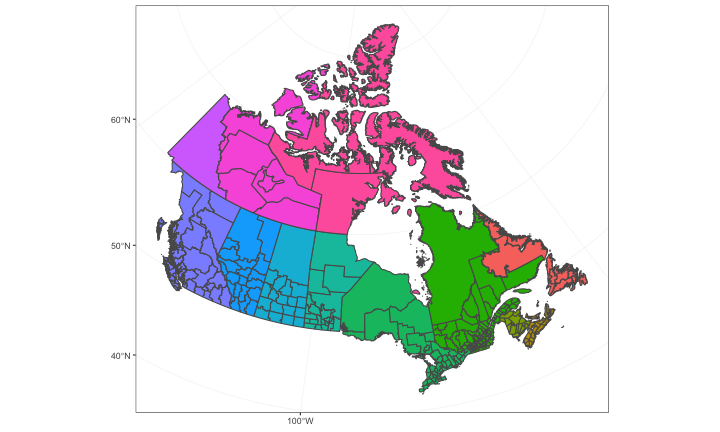
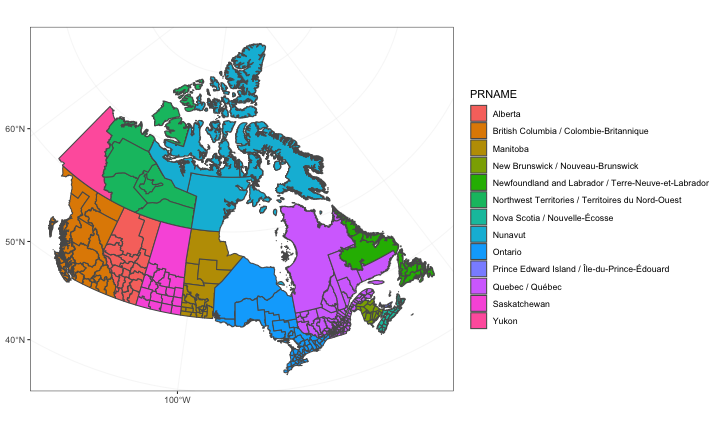
add dist plots

diff --git a/6-data-viz.html b/6-data-viz.html
@@ -212,9 +212,7 @@ m1 %&gt;%
 
 ---
 
-class: inverse
-
-## Always plot the data.
+## Always plot your data.
 
 --
 
@@ -223,7 +221,7 @@ class: inverse
 starwars %&gt;% 
 ggplot( aes(x = height, y = birth_year) ) + 
   geom_point( aes(size = mass) ) + 
-  geom_text(aes(label = ifelse(birth_year &gt; 750, name, NA)), size =4, hjust = 0)
+  geom_text(aes(label = ifelse(birth_year &gt; 750, name, NA)), color = "red")
 ```
 
 &lt;img src="/Users/judgelord/811/Figs/point-1.png" style="display: block; margin: auto;" /&gt;
@@ -244,7 +242,7 @@ ggplot( aes(x = height, y = birth_year) ) +
 
 ---
 
-# #!
+## !
 
 
 ```r
@@ -287,30 +285,32 @@ ggplot( aes(x = height, y = birth_year) ) +
 
 ---
 
+![](Figs/curve_fitting.png)
+---
 
-# `ggplot()`
+# Truth, beauty, `ggplot()`
 
 ---
 
-**aes**thetics: map variables onto things people can see (position, color, etc.)
+`aes`thetics map variables onto things people can see (position, color, etc.)
 
-**geom**: what to plot (points, lines, etc.)
+`geom`s are plot layers (points, lines, etc.)
 
-**scale**: data values to "computer" values (negative = "red", thousands = value/1000, etc.)
+`scale`s are how we show variation (negative = "red", thousands = value/1000, etc.)
 
-**facet**: split into mini-plots comparing subsets ("small multiples")
+`facet`s are mini-plots comparing subsets ("small multiples")
 
 
 ```r
 starwars %&gt;% 
   unnest(films) %&gt;% 
   filter(films %in% c("Return of the Jedi", "The Force Awakens")) %&gt;% 
-ggplot( aes(x = birth_year, y = height, size = mass, color = species) ) + 
-  geom_point(alpha = .5) + 
-  geom_text(aes(label = name), size = 4, hjust = 0, vjust = 0, check_overlap = T) + 
+ggplot( aes(x = birth_year, y = height, color = species) ) + 
+  geom_point( aes(size = mass), alpha = .5) + 
+  geom_text(aes(label = name),  hjust = 0, vjust = 0, check_overlap = T) + 
   scale_x_continuous(limits = c(0, 1000) ) + 
   facet_wrap("films") + # facet by film
-  labs(x = "Age", y = "Height (cm)", color = "Species", size = "Mass")
+  labs(x = "Age", y = "Height", color = "Species", size = "Mass")
 ```
 
 &lt;img src="/Users/judgelord/811/Figs/starwars-height-1.png" style="display: block; margin: auto;" /&gt;
@@ -334,15 +334,22 @@ head(world)
 ## 5 -70.06612 12.54697     1     5  Aruba      &lt;NA&gt;
 ## 6 -70.05088 12.59707     1     6  Aruba      &lt;NA&gt;
 ```
+
+```r
+world %&gt;% filter(region == "Aruba") %&gt;% 
+ggplot( aes(x = long, y = lat) ) + geom_point()
+```
+
+&lt;img src="/Users/judgelord/811/Figs/map-world-data-1.png" style="display: block; margin: auto;" /&gt;
 ---
 
 
 ```r
 world %&gt;% 
 ggplot( aes(x = long, y = lat) ) +  
-  # A map layer of country shapes
+  # A map layer of country shapes (geom_polygon connects the dots)
   geom_polygon( aes(group = group), fill = NA, color = "grey") +
-  # We are here: 43.0731° N, 89.4012° W
+  # We are here: 
   geom_point(aes(x=-89.4012, y=43.0731), color = "Red") 
 ```
 
@@ -381,7 +388,12 @@ ggplot( aes(x = long, y = lat, group = group) ) +
 &lt;img src="/Users/judgelord/811/Figs/map-wi-1.png" style="display: block; margin: auto;" /&gt;
 
 ---
-Ysing GIS data with `sf` (see [full example](https://github.com/judgelord/PS811/example_map_canada.Rmd), adapted [from Kieran Healy](https://kieranhealy.org/blog/archives/2018/12/09/canada-map/)).
+## `scale`
+
+![](Figs/scales.png)
+
+---
+Using GIS data with `sf` (see [full example](https://github.com/judgelord/PS811/example_map_canada.Rmd), adapted [from Kieran Healy](https://kieranhealy.org/blog/archives/2018/12/09/canada-map/)).
 
 
 ```r
@@ -389,8 +401,7 @@ canada_cd &lt;- st_read("data/canada_cd_sim.geojson", quiet = TRUE)
 
 canada_cd %&gt;% 
 ggplot() + 
-  geom_sf(mapping = aes(fill = PRUID)) + # provence ID
-  guides(fill = FALSE)
+  geom_sf(mapping = aes(fill = PRNAME)) 
 ```
 
 &lt;img src="/Users/judgelord/811/Figs/canada-1.png" style="display: block; margin: auto;" /&gt;
@@ -404,11 +415,29 @@ canada_cd %&gt;%
   # Lambert Conformal Conic projection
   st_transform(crs = "+proj=lcc +lat_1=49 +lat_2=77 +lon_0=-91.52 +x_0=0 +y_0=0 +datum=NAD83 +units=m +no_defs") %&gt;%
 ggplot() + 
-  geom_sf(mapping = aes(fill = PRUID)) + # provence ID
-  guides(fill = FALSE)
+  geom_sf(mapping = aes(fill = PRNAME)) 
 ```
 
 &lt;img src="/Users/judgelord/811/Figs/canada- projection-1.png" style="display: block; margin: auto;" /&gt;
+
+---
+
+# Transformations
+Summary stats with `stat`= \{`count`, `bin`, `density`, `smooth`, `ecdf`, `quantile`, etc.\}. `stat` applies some function to make a new variable (besides regression, nothing you could not have wrangled with `dplyr` `summary` or `mutate`).
+
+---
+## Distributions with `geom_histogram`
+
+
+```r
+lincoln_weather %&gt;% 
+ggplot( aes(x = `Mean Temperature [F]`) ) +
+  geom_histogram(binwidth = 10) + # i.e. geom_bar(stat = count, binwidth = 10)
+  facet_grid(Month ~ .) + 
+  theme(strip.text.y = element_text(angle = 0))
+```
+
+&lt;img src="/Users/judgelord/811/Figs/hist-1.png" style="display: block; margin: auto;" /&gt;
 
 ---
 
@@ -419,43 +448,11 @@ ggplot() +
 lincoln_weather %&gt;% 
 ggplot( aes(x = `Mean Temperature [F]`) ) +
   geom_density() +
-  facet_wrap("Month")
+  facet_grid(Month ~ .) + 
+  theme(strip.text.y = element_text(angle = 0))
 ```
 
-&lt;img src="/Users/judgelord/811/Figs/unnamed-chunk-6-1.png" style="display: block; margin: auto;" /&gt;
-
-```r
-glimpse(lincoln_weather)
-```
-
-```
-## Observations: 366
-## Variables: 24
-## $ CST                            &lt;chr&gt; "2016-1-1", "2016-1-2", "2016-1-3…
-## $ `Max Temperature [F]`          &lt;int&gt; 37, 41, 37, 30, 38, 34, 33, 28, 2…
-## $ `Mean Temperature [F]`         &lt;int&gt; 24, 23, 23, 17, 29, 33, 30, 25, 9…
-## $ `Min Temperature [F]`          &lt;int&gt; 11, 5, 8, 4, 19, 32, 27, 22, -4, …
-## $ `Max Dew Point [F]`            &lt;int&gt; 19, 22, 23, 24, 29, 33, 32, 25, 1…
-## $ `Mean Dew Point [F]`           &lt;int&gt; 13, 14, 15, 13, 25, 32, 30, 22, 4…
-## $ `Min Dewpoint [F]`             &lt;int&gt; 8, 4, 8, 2, 19, 29, 25, 18, -8, -…
-## $ `Max Humidity`                 &lt;int&gt; 88, 100, 92, 92, 96, 100, 100, 92…
-## $ `Mean Humidity`                &lt;int&gt; 68, 72, 73, 82, 83, 91, 96, 85, 7…
-## $ `Min Humidity`                 &lt;int&gt; 47, 44, 54, 72, 70, 82, 92, 78, 6…
-## $ `Max Sea Level Pressure [In]`  &lt;dbl&gt; 30.50, 30.35, 30.50, 30.50, 30.20…
-## $ `Mean Sea Level Pressure [In]` &lt;dbl&gt; 30.39, 30.30, 30.42, 30.39, 30.06…
-## $ `Min Sea Level Pressure [In]`  &lt;dbl&gt; 30.30, 30.22, 30.32, 30.18, 29.99…
-## $ `Max Visibility [Miles]`       &lt;int&gt; 10, 10, 10, 10, 10, 10, 9, 10, 10…
-## $ `Mean Visibility [Miles]`      &lt;int&gt; 10, 10, 10, 9, 8, 4, 3, 6, 9, 10,…
-## $ `Min Visibility [Miles]`       &lt;int&gt; 10, 10, 10, 6, 5, 0, 0, 2, 5, 10,…
-## $ `Max Wind Speed [MPH]`         &lt;int&gt; 20, 15, 13, 17, 22, 16, 16, 25, 2…
-## $ `Mean Wind Speed[MPH]`         &lt;int&gt; 9, 6, 5, 7, 13, 7, 7, 16, 14, 5, …
-## $ `Max Gust Speed [MPH]`         &lt;int&gt; 23, 18, 14, 23, 28, 21, 21, 32, 2…
-## $ `Precipitation [In]`           &lt;chr&gt; "0", "0", "0", "0", "0", "T", "0"…
-## $ CloudCover                     &lt;int&gt; 0, 0, 0, 1, 4, 8, 8, 8, 5, 0, 7, …
-## $ Events                         &lt;chr&gt; NA, NA, NA, NA, NA, "Fog", "Fog",…
-## $ `WindDir [Degrees]`            &lt;int&gt; 280, 312, 330, 155, 178, 167, 7, …
-## $ Month                          &lt;fct&gt; January, January, January, Januar…
-```
+&lt;img src="/Users/judgelord/811/Figs/density-1.png" style="display: block; margin: auto;" /&gt;
 
 ---
 
@@ -472,7 +469,7 @@ ggplot( aes(x = `Mean Temperature [F]`, y = Month, fill = ..x..) ) +
   labs(title = "Temperatures in Lincoln NE in 2016", fill = "Temp. [F]")
 ```
 
-&lt;img src="/Users/judgelord/811/Figs/dist-1.png" style="display: block; margin: auto;" /&gt;
+&lt;img src="/Users/judgelord/811/Figs/density-ggridges-1.png" style="display: block; margin: auto;" /&gt;
 
 ---
 ## Saving figures
